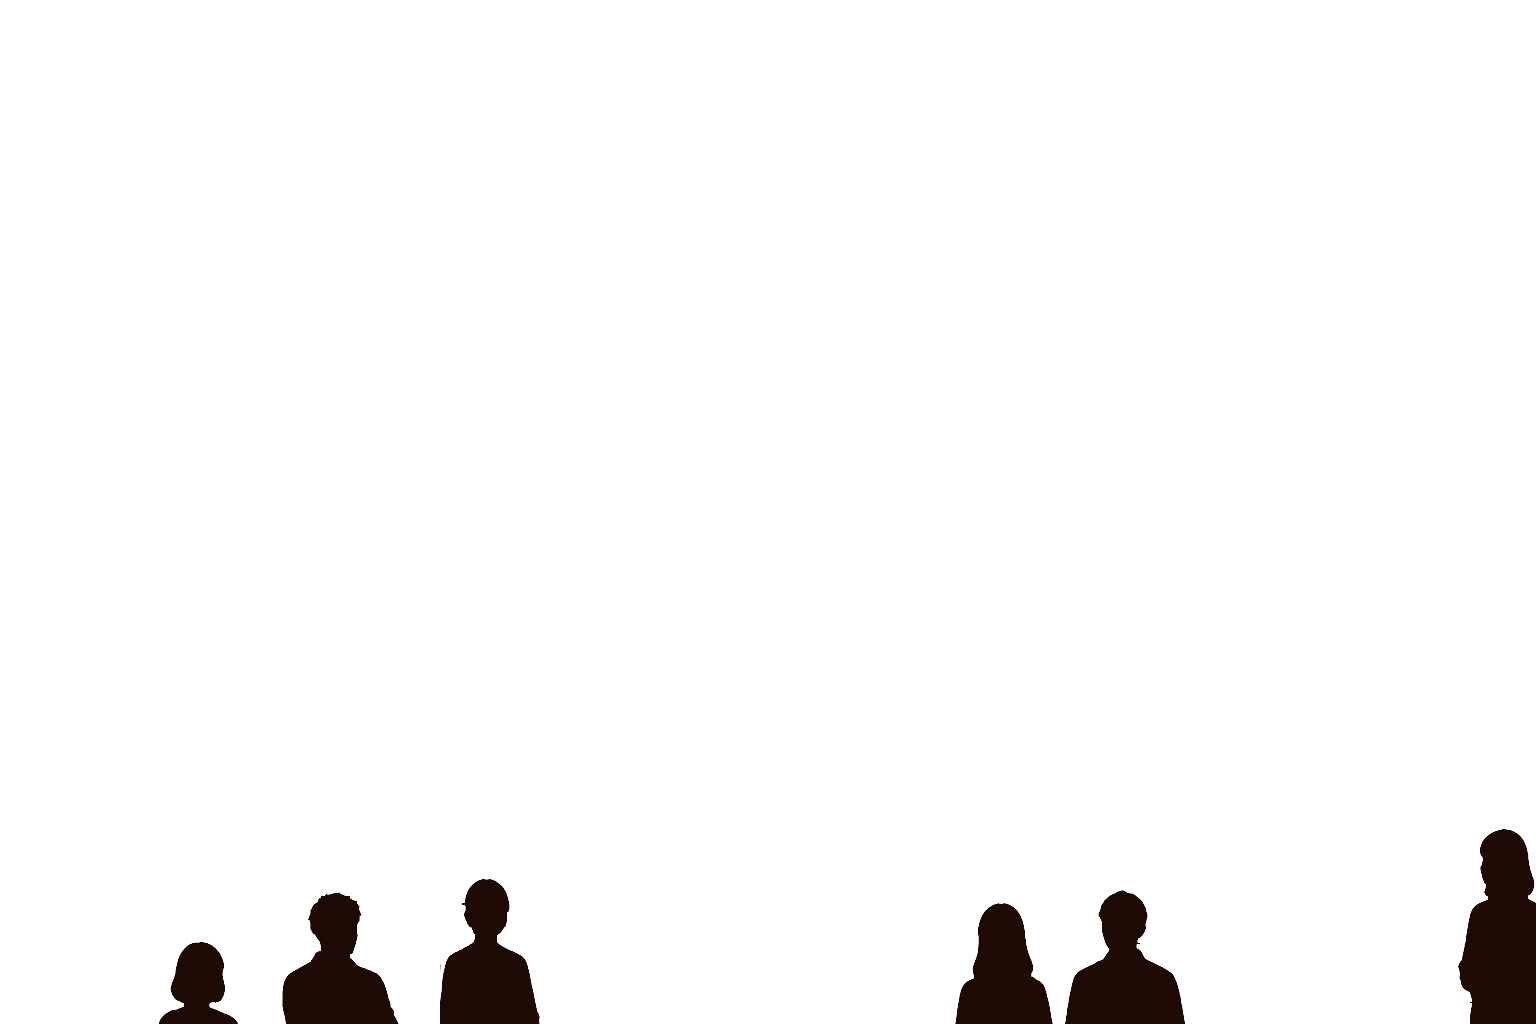
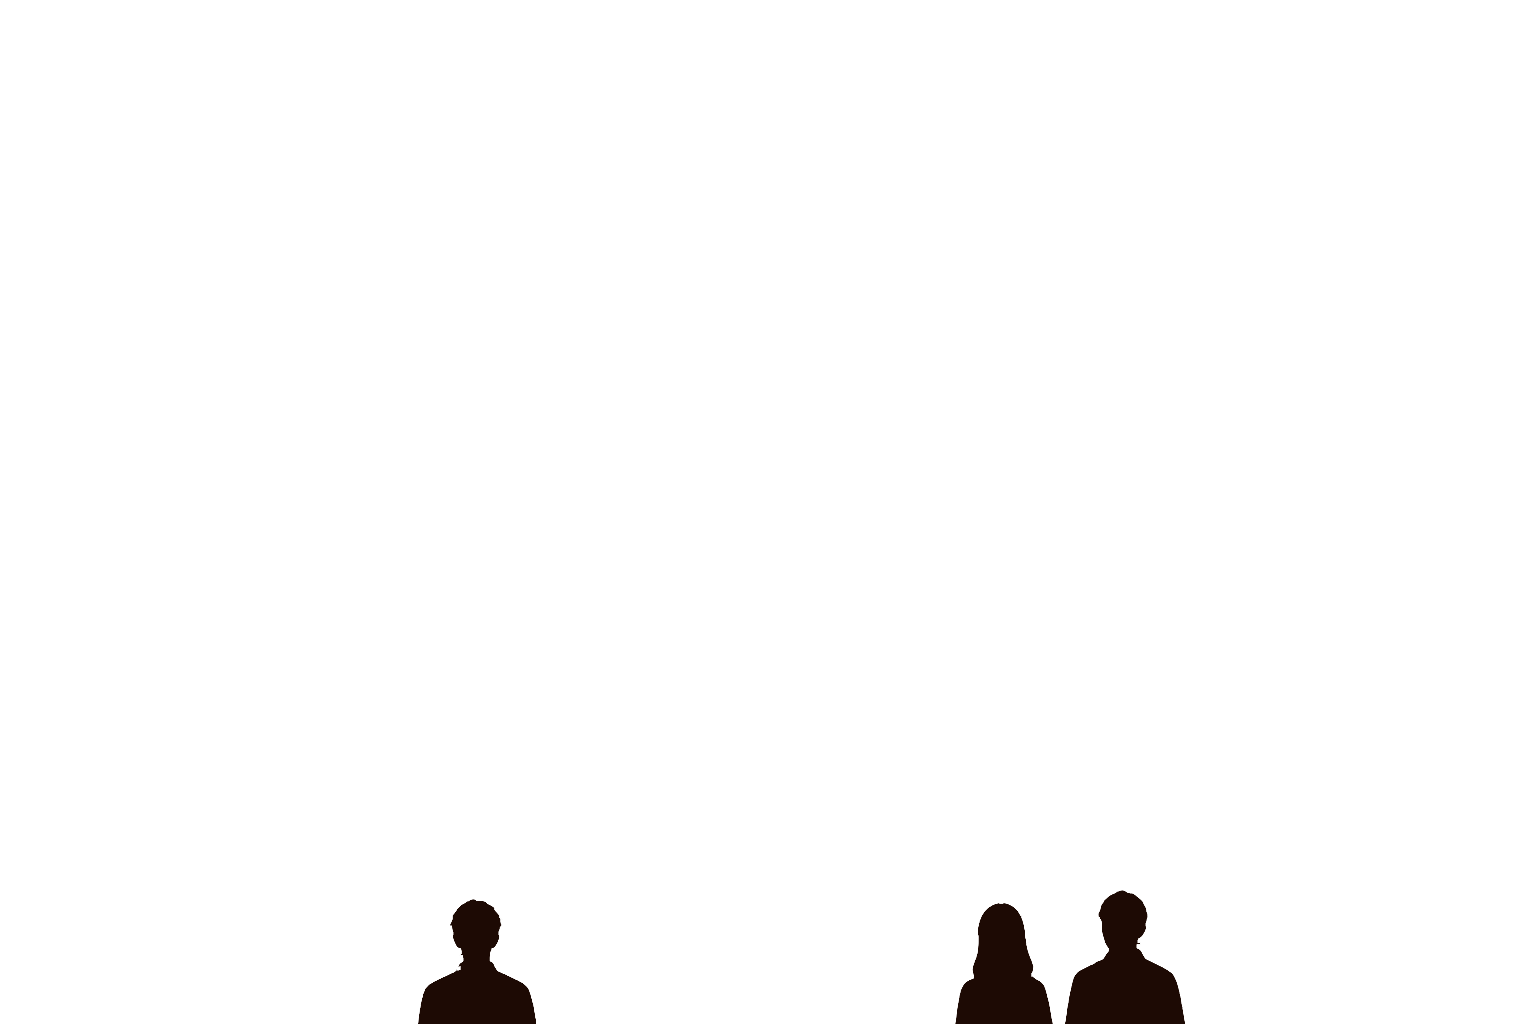
1

Changed region(s): [[0.0938, 0.8438, 0.3438, 1.0], [0.9375, 0.8125, 1.0, 1.0]]

diff --git a/js/game.js b/js/game.js
@@ -188,7 +188,39 @@ function renderJapanMap() {
                 img.style.zIndex = rate >= 80 ? '15' : (rate > 0 ? '10' : '5');
             };
 
-            img.onclick = () => openEncyclopedia(p.id);
+            // ピクセル単位の不透明度チェックと透過クリック（スルー）処理
+            let imgCanvas = null;
+            let imgCtx = null;
+
+            img.onclick = (e) => {
+                if (!imgCanvas) {
+                    imgCanvas = document.createElement('canvas');
+                    imgCanvas.width = img.naturalWidth;
+                    imgCanvas.height = img.naturalHeight;
+                    imgCtx = imgCanvas.getContext('2d');
+                    imgCtx.drawImage(img, 0, 0);
+                }
+
+                const rect = img.getBoundingClientRect();
+                const clickX = Math.floor((e.clientX - rect.left) * (img.naturalWidth / rect.width));
+                const clickY = Math.floor((e.clientY - rect.top) * (img.naturalHeight / rect.height));
+
+                if (clickX >= 0 && clickX < img.naturalWidth && clickY >= 0 && clickY < img.naturalHeight) {
+                    const alpha = imgCtx.getImageData(clickX, clickY, 1, 1).data[3];
+                    // 透明（Alpha <= 30）な場合はクリックを通過させて背後の要素を探す
+                    if (alpha <= 30) {
+                        img.style.pointerEvents = 'none';
+                        const underlyingElement = document.elementFromPoint(e.clientX, e.clientY);
+                        img.style.pointerEvents = 'auto';
+
+                        if (underlyingElement && underlyingElement.onclick && underlyingElement !== img) {
+                            underlyingElement.onclick(e);
+                        }
+                        return;
+                    }
+                }
+                openEncyclopedia(p.id);
+            };
             
             container.appendChild(img);
         });
@@ -201,6 +233,7 @@ function renderJapanMap() {
     updateVisitors();
 }
 
+// game.js 内の updateVisitors
 // game.js 内の updateVisitors
 function updateVisitors() {
     const container = document.getElementById('museum-visitors');
@@ -215,21 +248,27 @@ function updateVisitors() {
     }
 
     const count = PREFECTURE_DATA.filter(p => (playerStats.excavationRates[p.id] || 0) > 0).length;
+    const totalPrefectures = PREFECTURE_DATA.length;
 
-    const visitors = [];
-    if (count >= 1)  visitors.push('image/p01.png');
-    if (count >= 15) visitors.push('image/p02.png');
-    if (count >= 35) visitors.push('image/p03.png');
+    let visitorImageSrc = null;
+    if (count >= totalPrefectures) {
+        visitorImageSrc = 'image/p05.png';
+    } else if (count >= 40) {
+        visitorImageSrc = 'image/p04.png';
+    } else if (count >= 30) {
+        visitorImageSrc = 'image/p03.png';
+    } else if (count >= 15) {
+        visitorImageSrc = 'image/p02.png';
+    } else if (count >= 5) {
+        visitorImageSrc = 'image/p01.png';
+    }
 
     container.innerHTML = '';
-    visitors.forEach(src => {
+    if (visitorImageSrc) {
         const img = document.createElement('img');
-        img.src = src;
+        img.src = visitorImageSrc;
         img.className = 'museum-visitor-img';
         container.appendChild(img);
-    });
-
-    if (visitors.length > 0) {
         container.style.display = 'flex';
     } else {
         container.style.display = 'none';
@@ -240,11 +279,15 @@ function updateUI() {
     document.getElementById('player-gold').innerText = playerStats.gold;
 
     let sum = 0;
+    let count = 0;
     PREFECTURE_DATA.forEach(p => {
-        sum += playerStats.excavationRates[p.id] || 0;
+        const rate = playerStats.excavationRates[p.id] || 0;
+        sum += rate;
+        if (rate > 0) count++;
     });
     const avg = Math.round(sum / PREFECTURE_DATA.length);
     document.getElementById('total-completion').innerText = avg;
+    document.getElementById('total-count').innerText = count;
 
     if (!playerStats.toolLevels.hammer) playerStats.toolLevels.hammer = 1;
 

diff --git a/index.html b/index.html
@@ -16,6 +16,9 @@
             <h1>日本列島博物館</h1>
             <div class="header-stats">
                 <div class="stat-badge">
+                    都道府県数: <span id="total-count">0</span> / 47
+                </div>
+                <div class="stat-badge">
                     所持金: <span id="player-gold">500</span> G
                 </div>
                 <div class="stat-badge">
@@ -207,10 +210,10 @@
     <!-- エディタから書き出されるJSファイルを読み込ませる -->
     <script src="js/prefecture_positions.js"></script>
     <script src="js/japan_data.js"></script>
-    <script src="js/game.js"></script>
     <script src="js/placement_game.js"></script>
     <script src="js/excavation_audio.js"></script>
     <script src="js/excavation_render.js"></script>
     <script src="js/excavation.js"></script>
+    <script src="js/game.js"></script>
 </body>
 </html>

diff --git a/js/excavation.js b/js/excavation.js
@@ -31,7 +31,18 @@ function startAreaExcavation(regionName) {
     playerStats.lastRegion = regionName;
     saveGame();
 
-    activePrefecture = prefs[Math.floor(Math.random() * prefs.length)];
+    // 未獲得（完成度0%）の都道府県の出現確率（重み）を高く設定
+    const weightedPrefs = [];
+    prefs.forEach(p => {
+        const rate = playerStats.excavationRates[p.id] || 0;
+        // 未獲得なら重み5（約5倍出現しやすい）、獲得済みなら重み1
+        const weight = rate === 0 ? 5 : 1;
+        for (let i = 0; i < weight; i++) {
+            weightedPrefs.push(p);
+        }
+    });
+
+    activePrefecture = weightedPrefs[Math.floor(Math.random() * weightedPrefs.length)];
     initExcavationGame();
 }
 

diff --git a/js/placement_game.js b/js/placement_game.js
@@ -246,6 +246,7 @@ function renderJapanMapForPlacement() {
             img.style.height = `${pos.h * scale}px`;
             img.style.filter = 'none';
             img.style.zIndex = rate >= 80 ? '15' : '10';
+            img.style.pointerEvents = 'none';
 
             container.appendChild(img);
         });
